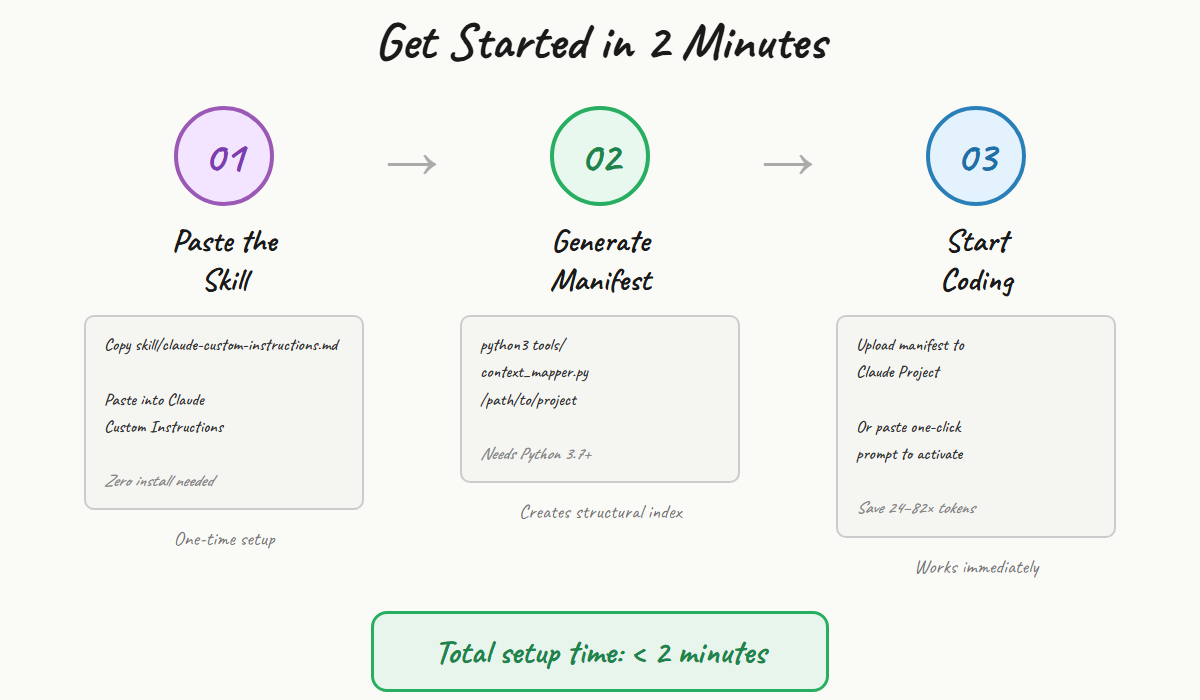
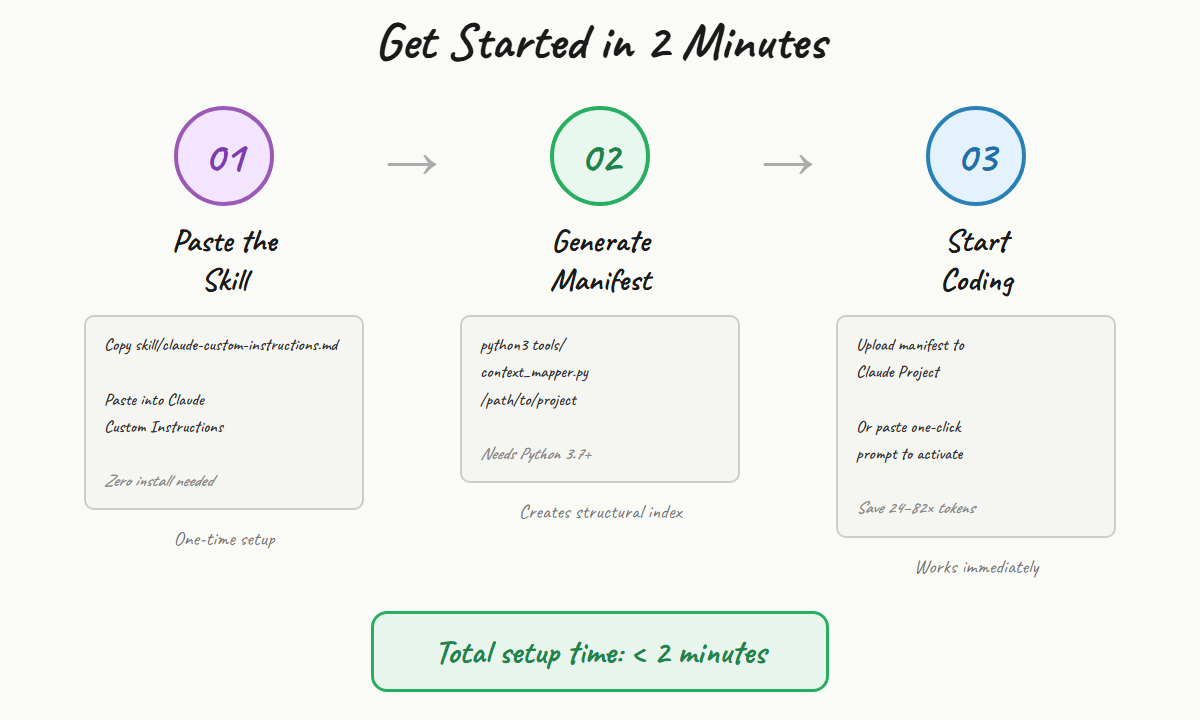
fix: full-page screenshots, centered at 900px width
- full_page=True captures bottom bar of token-problem
- p align=center with width=900 for consistent padding
- avoids GitHub image overflow on narrow screens

diff --git a/README.md b/README.md
@@ -55,19 +55,19 @@ Just official Claude features (Custom Instructions + Projects + Knowledge) and a
 
 ## The Token Problem
 
-![The Token Problem](assets/token-problem.png)
+<p align="center"><img src="assets/token-problem.png" width="900" alt="The Token Problem"/></p>
 
 ## How It Works
 
-![How It Works](assets/how-it-works.png)
+<p align="center"><img src="assets/how-it-works.png" width="900" alt="How It Works"/></p>
 
 ## Works Everywhere Claude Runs
 
-![Works Everywhere](assets/works-everywhere.png)
+<p align="center"><img src="assets/works-everywhere.png" width="900" alt="Works Everywhere"/></p>
 
 ## Get Started in 2 Minutes
 
-![Setup Flow](assets/setup-flow.png)
+<p align="center"><img src="assets/setup-flow.png" width="900" alt="Setup Flow"/></p>
 
 ---
 